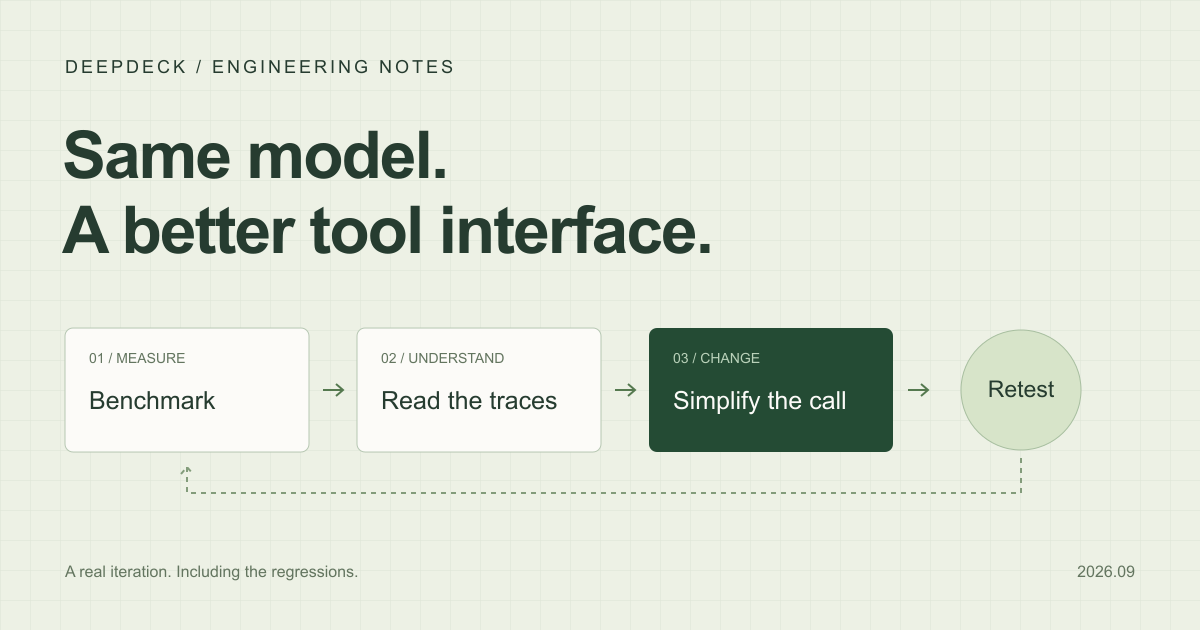
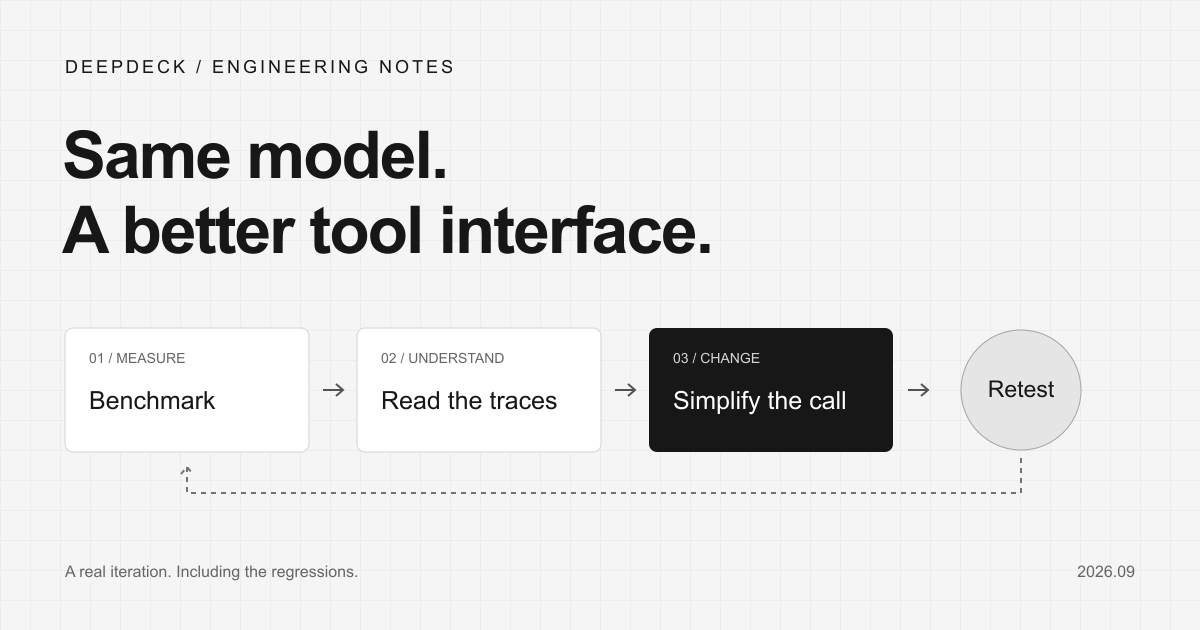
Refine blog with monochrome styling and plain section headings

diff --git a/apps/web/app/_components/blog.module.css b/apps/web/app/_components/blog.module.css
@@ -1,78 +1,78 @@
-.page { background: #fcfbf8; min-height: 100vh; --ink: #202923; --accent: #38694d; color: var(--ink); }
+.page { background: #ffffff; min-height: 100vh; --ink: #171717; --accent: #171717; color: var(--ink); }
 :global(html):has(.page) { scroll-behavior: auto; }
 .page main { overflow: visible; }
 .shell, .headerInner { width: min(1160px, calc(100% - 64px)); margin-inline: auto; }
 .skip { position: fixed; top: -100px; left: 24px; padding: 12px; background: white; z-index: 30; }
 .skip:focus { top: 12px; }
-.header { border-bottom: 1px solid #dedfd8; background: #fcfbf8; }
+.header { border-bottom: 1px solid #e5e5e5; background: #ffffff; }
 .headerInner { min-height: 78px; display: flex; align-items: center; justify-content: space-between; gap: 24px; }
 .brand { display: inline-flex; align-items: center; gap: 10px; font-weight: 650; font-size: 20px; letter-spacing: -.7px; }
 .header nav { display: flex; align-items: center; gap: 28px; font-size: 14px; }
-.header nav a:hover, .footer a:hover { color: var(--accent); }
+.header nav a:hover, .footer a:hover { color: var(--accent); text-decoration: underline; text-underline-offset: 5px; }
 .header a[aria-current] { text-decoration: underline; text-underline-offset: 7px; }
-.language { border: 1px solid #d3d8cc; padding: 7px 11px; border-radius: 5px; }
+.language { border: 1px solid #d4d4d4; padding: 7px 11px; border-radius: 5px; }
 .eyebrow { color: var(--accent); font-family: var(--font-geist-mono), monospace; font-size: 12px; letter-spacing: .08em; line-height: 1.7; font-weight: 500; }
 .indexIntro { padding: 80px 0 68px; }
 .indexIntro h1 { font-size: clamp(40px, 5.8vw, 72px); font-weight: 570; line-height: 1.25; letter-spacing: -.045em; margin: 22px 0; }
-.indexIntro h1 span { color: #7c877e; }
-.lead { max-width: 720px; color: #626c65; font-size: 19px; line-height: 1.85; }
-.listHeading { border-top: 1px solid #d7dcd4; border-bottom: 1px solid #d7dcd4; display: flex; align-items: center; justify-content: space-between; padding: 16px 0; }
+.indexIntro h1 span { color: #737373; }
+.lead { max-width: 720px; color: #525252; font-size: 19px; line-height: 1.85; }
+.listHeading { border-top: 1px solid #e5e5e5; border-bottom: 1px solid #e5e5e5; display: flex; align-items: center; justify-content: space-between; padding: 16px 0; }
 .listHeading h2 { margin: 0; font-size: 15px; font-weight: 500; }
-.listHeading span { color: #6b766d; font: 12px var(--font-geist-mono), monospace; }
+.listHeading span { color: #666666; font: 12px var(--font-geist-mono), monospace; }
 .card { display: grid; grid-template-columns: 1.15fr 1fr; gap: 48px; align-items: center; padding: 40px 0; }
-.coverLink { display: block; overflow: hidden; border-radius: 7px; border: 1px solid #d7dcd4; }
+.coverLink { display: block; overflow: hidden; border-radius: 7px; border: 1px solid #e5e5e5; }
 .cover { width: 100%; height: auto; display: block; transition: transform 180ms ease; }
 .coverLink:hover .cover { transform: scale(1.02); }
 .cardBody h3 { margin: 15px 0; font-size: clamp(25px, 2.7vw, 34px); line-height: 1.4; letter-spacing: -.03em; font-weight: 600; }
 .cardBody h3 a:hover { text-decoration: underline; text-underline-offset: 5px; }
-.cardBody > p:not(.eyebrow) { color: #626c65; line-height: 1.9; font-size: 16px; }
-.meta { display: flex; gap: 18px; flex-wrap: wrap; align-items: center; font-size: 12px; color: #66716a; line-height: 1.8; }
+.cardBody > p:not(.eyebrow) { color: #525252; line-height: 1.9; font-size: 16px; }
+.meta { display: flex; gap: 18px; flex-wrap: wrap; align-items: center; font-size: 12px; color: #666666; line-height: 1.8; }
 .meta a { text-decoration: underline; text-underline-offset: 4px; }
 .readLink { display: inline-flex; gap: 20px; align-items: center; color: var(--accent); font-weight: 550; font-size: 14px; margin-top: 25px; }
 .readLink:hover { text-decoration: underline; text-underline-offset: 4px; }
-.footer { margin-top: 88px; padding: 28px 0 36px; border-top: 1px solid #d7dcd4; display: flex; align-items: center; gap: 24px; font-size: 13px; }
-.footer p { flex: 1; color: #66716a; }
-.back { display: inline-block; color: #626c65; font-size: 13px; margin-bottom: 40px; }
+.footer { margin-top: 88px; padding: 28px 0 36px; border-top: 1px solid #e5e5e5; display: flex; align-items: center; gap: 24px; font-size: 13px; }
+.footer p { flex: 1; color: #666666; }
+.back { display: inline-block; color: #525252; font-size: 13px; margin-bottom: 40px; }
 .articleHeader { max-width: 920px; padding: 45px 0 46px; }
 .articleHeader h1 { font-size: clamp(32px, 4.6vw, 57px); line-height: 1.3; letter-spacing: -.035em; margin: 20px 0; font-weight: 600; }
 .articleHeader .meta { margin-top: 28px; }
-.articleLayout { display: grid; grid-template-columns: 220px minmax(0, 1fr); gap: 64px; align-items: start; border-top: 1px solid #d7dcd4; padding-top: 40px; }
+.articleLayout { display: grid; grid-template-columns: 220px minmax(0, 1fr); gap: 64px; align-items: start; border-top: 1px solid #e5e5e5; padding-top: 40px; }
 .toc { position: sticky; top: 28px; font-size: 12px; line-height: 1.8; }
 .toc summary { font-weight: 650; font-size: 13px; cursor: pointer; }
 .toc ol { list-style: none; padding: 0; margin: 20px 0 0; }
 .toc li { margin: 0 0 13px; }
-.toc a { color: #66716a; }
+.toc a { color: #666666; }
 .toc a:hover { color: var(--accent); text-decoration: underline; }
 .prose { min-width: 0; max-width: 790px; font-size: 17px; line-height: 1.95; overflow-wrap: break-word; }
-.articleCover { display: block; width: 100%; height: auto; border-radius: 6px; border: 1px solid #d7dcd4; margin-bottom: 35px; }
+.articleCover { display: block; width: 100%; height: auto; border-radius: 6px; border: 1px solid #e5e5e5; margin-bottom: 35px; }
 .prose p { margin: 0 0 22px; }
-.introduction { font-size: 19px; color: #485a4e; }
+.introduction { font-size: 19px; color: #404040; }
 .prose section { scroll-margin-top: 32px; margin-top: 50px; }
 .prose h2 { font-size: 27px; letter-spacing: -.02em; line-height: 1.45; margin: 0 0 22px; font-weight: 600; }
 .prose figure { margin: 28px 0; }
-.prose figcaption { color: #66716a; font-size: 12px; line-height: 1.8; margin-top: 12px; }
-.toolCards { display: grid; grid-template-columns: 1fr 1fr; border: 1px solid #d7dcd4; border-radius: 6px; overflow: hidden; }
-.toolCards > div { padding: 20px; background: #f0f0e9; min-width: 0; }
-.toolCards > .newTool { background: #e5eee2; border-left: 1px solid #cbd8c9; }
+.prose figcaption { color: #666666; font-size: 12px; line-height: 1.8; margin-top: 12px; }
+.toolCards { display: grid; grid-template-columns: 1fr 1fr; border: 1px solid #e5e5e5; border-radius: 6px; overflow: hidden; }
+.toolCards > div { padding: 20px; background: #fafafa; min-width: 0; }
+.toolCards > .newTool { background: #f0f0f0; border-left: 1px solid #d4d4d4; }
 .toolTask { font-size: 15px; font-weight: 600; }
 .toolCards h3 { font-size: 17px; line-height: 1.6; margin: 0 0 16px; }
 .toolCards ul { padding-left: 19px; font-size: 14px; line-height: 1.85; margin: 0; }
 .toolCards li { margin-bottom: 10px; }
-.toolCards .toolOutcome { border-top: 1px solid #cbd2c4; padding-top: 15px; margin: 20px 0 0; font-size: 14px; line-height: 1.85; }
-.tableScroll { overflow-x: auto; border: 1px solid #d7dcd4; border-radius: 6px; }
+.toolCards .toolOutcome { border-top: 1px solid #d4d4d4; padding-top: 15px; margin: 20px 0 0; font-size: 14px; line-height: 1.85; }
+.tableScroll { overflow-x: auto; border: 1px solid #e5e5e5; border-radius: 6px; }
 .tableScroll:focus-visible { outline: 2px solid var(--accent); outline-offset: 3px; }
 .resultFigure table { width: 100%; border-collapse: collapse; font-size: 13px; white-space: nowrap; font-variant-numeric: tabular-nums; }
-.resultFigure caption { text-align: left; padding: 15px 18px; background: #e5eee2; font-size: 12px; }
-.resultFigure th, .resultFigure td { text-align: left; padding: 14px 18px; border-top: 1px solid #d7dcd4; }
+.resultFigure caption { text-align: left; padding: 15px 18px; background: #f0f0f0; font-size: 12px; }
+.resultFigure th, .resultFigure td { text-align: left; padding: 14px 18px; border-top: 1px solid #e5e5e5; }
 .resultFigure th { font-weight: 550; }
-.resultFigure thead th { background: #f0f0e9; }
+.resultFigure thead th { background: #fafafa; }
 .steps { padding-left: 24px; }
 .steps li { margin-bottom: 16px; padding-left: 5px; }
-.sources { border-top: 1px solid #d7dcd4; padding-top: 30px; }
+.sources { border-top: 1px solid #e5e5e5; padding-top: 30px; }
 .sources ul { list-style: none; padding: 0; font-size: 14px; }
-.sources li { padding: 10px 0; border-bottom: 1px solid #e2e6dd; }
+.sources li { padding: 10px 0; border-bottom: 1px solid #e5e5e5; }
 .sources li a { color: var(--accent); text-decoration: underline; text-underline-offset: 4px; }
-@media (max-width: 950px) { .articleLayout { grid-template-columns: 180px minmax(0, 1fr); gap: 32px; } .card { gap: 28px; } .toolCards { grid-template-columns: 1fr; } .toolCards > .newTool { border-left: 0; border-top: 1px solid #cbd8c9; } }
+@media (max-width: 950px) { .articleLayout { grid-template-columns: 180px minmax(0, 1fr); gap: 32px; } .card { gap: 28px; } .toolCards { grid-template-columns: 1fr; } .toolCards > .newTool { border-left: 0; border-top: 1px solid #d4d4d4; } }
 @media (max-width: 720px) {
   .shell, .headerInner { width: calc(100% - 36px); }
   .headerInner { min-height: 68px; gap: 12px; }
@@ -85,7 +85,7 @@
   .articleHeader { padding: 28px 0 30px; }
   .back { margin-bottom: 26px; }
   .articleLayout { display: flex; flex-direction: column; gap: 28px; padding-top: 22px; }
-  .toc { position: static; width: 100%; padding-bottom: 18px; border-bottom: 1px solid #d7dcd4; }
+  .toc { position: static; width: 100%; padding-bottom: 18px; border-bottom: 1px solid #e5e5e5; }
   .toc ol { display: grid; grid-template-columns: 1fr 1fr; gap: 10px 20px; }
   .toc li { margin: 0; }
   .prose { width: 100%; font-size: 16px; }
@@ -97,6 +97,8 @@
 @media (prefers-reduced-motion: reduce) { .cover { transition: none; } }
 
 .prose .codeLabel { font-size: 13px; line-height: 1.7; margin: 20px 0 8px; }
-.toolJson { max-width: 100%; overflow-x: auto; padding: 16px; margin: 0; border: 1px solid #cbd2c4; border-radius: 5px; background: #fafbf7; color: #253b2c; font-size: 12px; line-height: 1.8; tab-size: 2; }
+.toolJson { max-width: 100%; overflow-x: auto; padding: 16px; margin: 0; border: 1px solid #d4d4d4; border-radius: 5px; background: #ffffff; color: #262626; font-size: 12px; line-height: 1.8; tab-size: 2; }
 .toolJson code { font-family: ui-monospace, SFMono-Regular, Consolas, monospace; }
 .toolJson:focus-visible { outline: 2px solid var(--accent); outline-offset: 3px; }
+
+.discoveryStep { margin: 28px 0 10px; font-size: 16px; line-height: 1.6; font-weight: 600; }

diff --git a/apps/web/app/_components/blog-page.tsx b/apps/web/app/_components/blog-page.tsx
@@ -55,12 +55,15 @@ function ToolReferenceFigure({ locale }: { locale: SiteLocale }) {
 
   return <figure className={s.toolFigure}>
     <p className={s.toolTask}>{zh ? '同一个任务：用订单号和邮箱查询订单状态' : 'Same task: look up an order using its reference and email'}</p>
-    <h3>{zh ? '先看工具发现：w_a17 是怎么到模型手里的？' : 'Discovery first: how does the model receive w_a17?'}</h3>
-    <p>{zh ? '① 模型先调用 browser_list_tools，参数是空对象，表示列出当前页面的全部工具：' : '① The model calls browser_list_tools with an empty object to list all tools on the current page:'}</p>
+    <h3>{zh ? '工具发现与调用' : 'Tool discovery and invocation'}</h3>
+    <h4 className={s.discoveryStep}>{zh ? '获取工具清单' : 'List available tools'}</h4>
+    <p>{zh ? '模型先调用 browser_list_tools，参数是空对象，表示列出当前页面的全部工具：' : 'The model calls browser_list_tools with an empty object to list all tools on the current page:'}</p>
     <pre className={s.toolJson} tabIndex={0}><code>{JSON.stringify(discoveryCall, null, 2)}</code></pre>
-    <p>{zh ? '② DeepDeck 读取页面提供的工具，为每个工具生成 toolRef，并保存它对应的页面和工具信息。然后把 toolRef 加到工具清单里，作为这次工具调用的结果返回给模型。下面只展示返回值中与查询订单有关的字段：' : '② DeepDeck reads the page’s tools, generates a toolRef for each, and stores its tool and page identity. It adds toolRef to the tool list and returns that list to the model as the tool result. This excerpt shows only the fields relevant to order lookup:'}</p>
+    <h4 className={s.discoveryStep}>{zh ? '生成并返回工具编号' : 'Generate and return tool references'}</h4>
+    <p>{zh ? 'DeepDeck 读取页面提供的工具，为每个工具生成 toolRef，并保存它对应的页面和工具信息。然后把 toolRef 加到工具清单里，作为这次工具调用的结果返回给模型。下面只展示返回值中与查询订单有关的字段：' : 'DeepDeck reads the page’s tools, generates a toolRef for each, and stores its tool and page identity. It adds toolRef to the tool list and returns that list to the model as the tool result. This excerpt shows only the fields relevant to order lookup:'}</p>
     <pre className={s.toolJson} tabIndex={0}><code>{JSON.stringify(discoveryResult, null, 2)}</code></pre>
-    <p>{zh ? '③ 模型看到 get_order_status 对应 w_a17，也看到它需要 order_reference 和 email。下一次调用 browser_webmcp_call 时，模型直接使用刚才返回的 w_a17，再填写订单号和邮箱。下面对比这一步的新旧参数。' : '③ The model sees that get_order_status has reference w_a17 and requires order_reference and email. In its next browser_webmcp_call, it uses the returned w_a17 with those business inputs. The comparison below shows the old and new arguments for this step.'}</p>
+    <h4 className={s.discoveryStep}>{zh ? '使用编号调用工具' : 'Call a tool by reference'}</h4>
+    <p>{zh ? '模型看到 get_order_status 对应 w_a17，也看到它需要 order_reference 和 email。下一次调用 browser_webmcp_call 时，模型直接使用刚才返回的 w_a17，再填写订单号和邮箱。下面对比这一步的新旧参数。' : 'The model sees that get_order_status has reference w_a17 and requires order_reference and email. In its next browser_webmcp_call, it uses the returned w_a17 with those business inputs. The comparison below shows the old and new arguments for this step.'}</p>
     <p className={s.codeLabel}>{zh ? 'w_a17 是为方便阅读缩短的示意值，不是模型自己编的，也不是网站生成的。实际格式是 w_加随机前缀和序号，例如 w_8f3a2c10_1。同一会话中工具及页面不变时可复用；页面或工具改变后，旧编号失效，需要重新发现。browser_context 也会在 targets[].tools[] 返回 name 和 toolRef；需要完整参数定义时可调用 browser_list_tools。' : 'w_a17 is shortened for readability; neither the model nor the website generates it. Actual references use a random prefix and a counter, for example w_8f3a2c10_1. They can be reused within a session while the tool and page remain unchanged. Changes invalidate old references and require rediscovery. browser_context also returns name and toolRef in targets[].tools[]; browser_list_tools provides the full input schemas.'}</p>
     <div className={s.toolCards}>
       <div>
